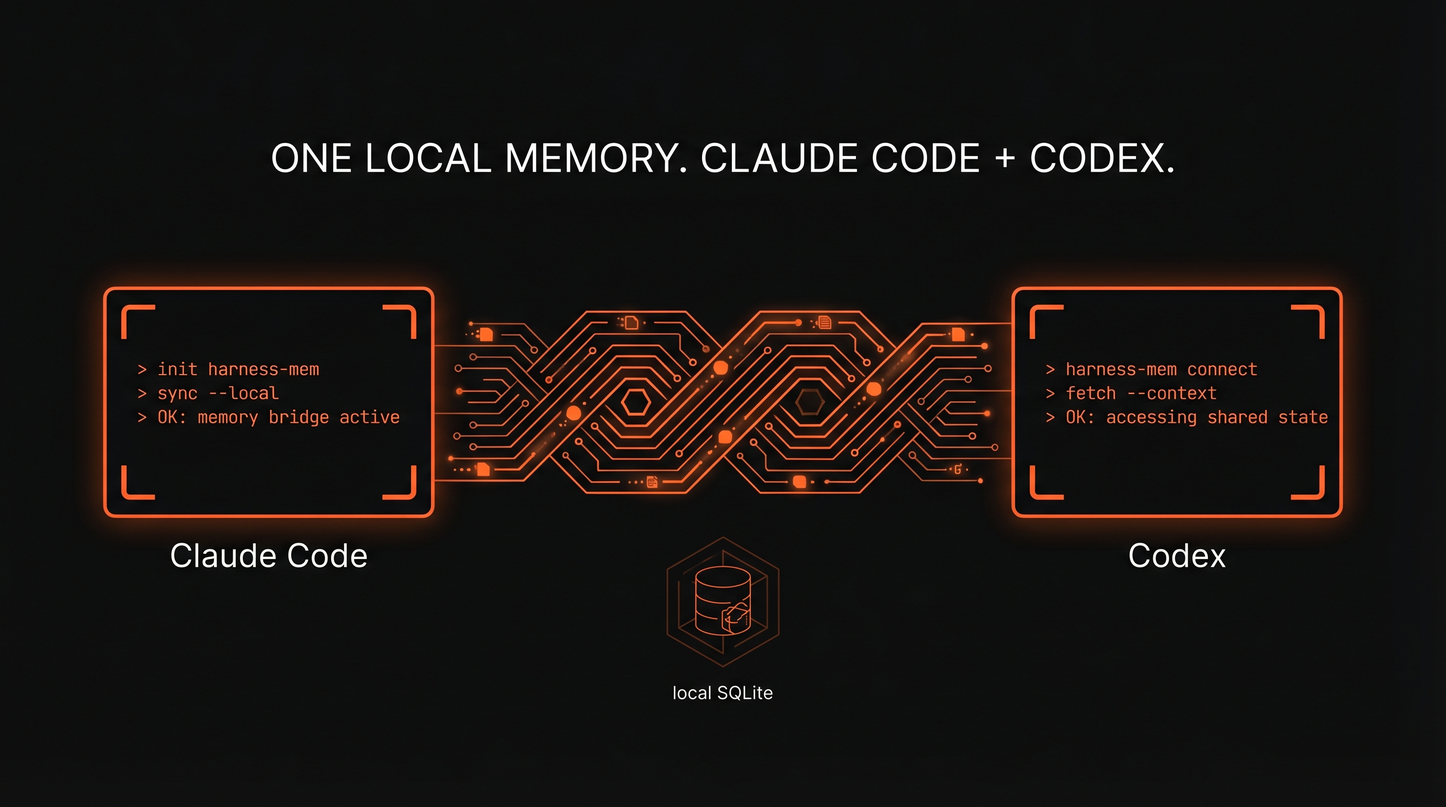
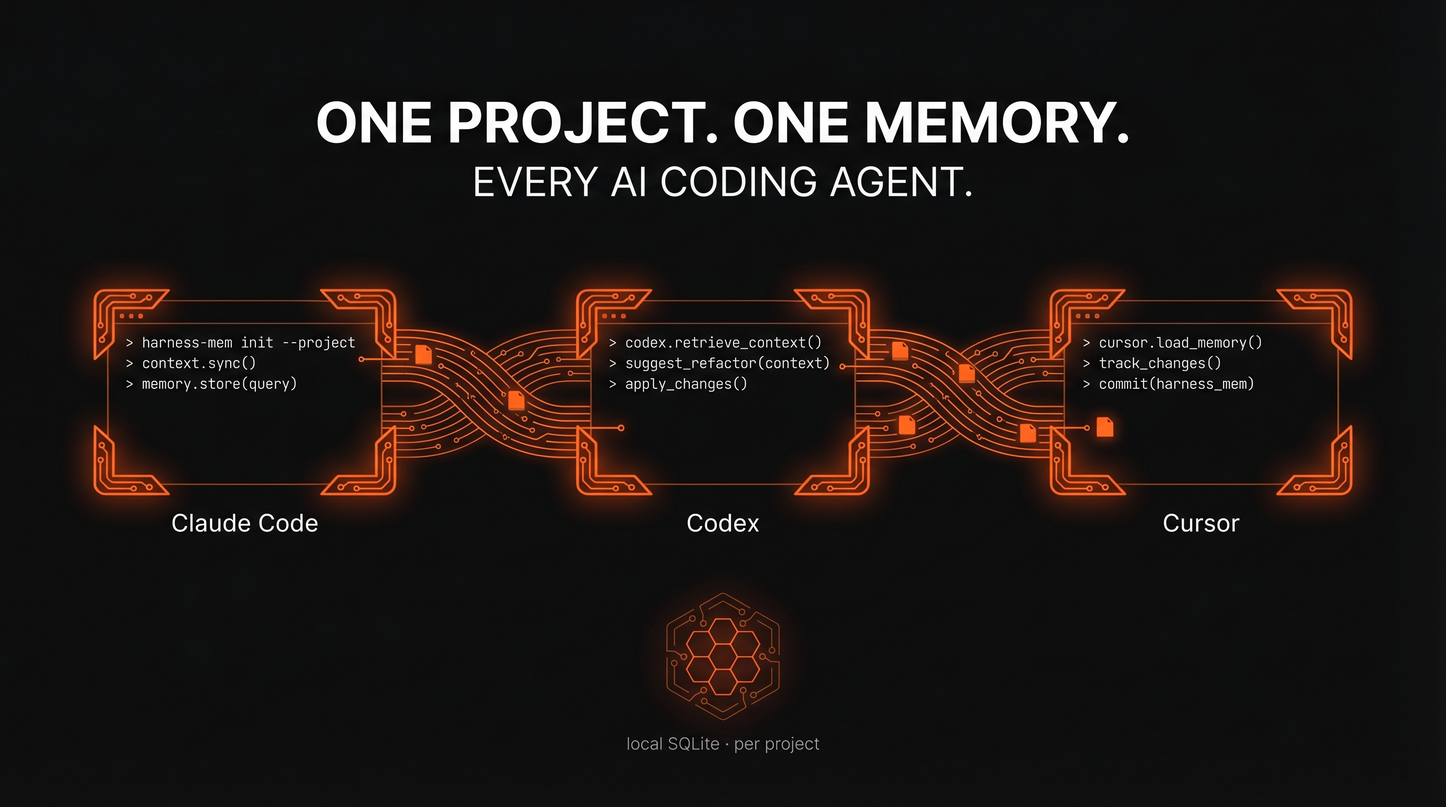
docs: hero v2 with new tagline + committed competitor benchmark audit
Close the loop on the positioning refresh by making the hero image
and the comparison table match each other, and by committing the
raw data behind the comparison table as a machine-readable audit
trail.

## Hero image v2

The previous docs/assets/readme/hero.png embedded the tagline
"ONE LOCAL MEMORY. CLAUDE CODE + CODEX." which no longer matches
the new positioning ("Every AI coding agent"). Regenerate the hero
with Gemini 3 Pro Image (Nano Banana Pro) using a new prompt:

- Two-line centered tagline:
  - Line 1: "ONE PROJECT. ONE MEMORY."
  - Line 2: "EVERY AI CODING AGENT."
- Three symmetric terminal windows labeled Claude Code, Codex,
  Cursor (not just two), to reflect that harness-mem is agent-neutral
  rather than Claude+Codex-only.
- Same brand palette (orange on black, woven circuit-board bridge).
- Same "local SQLite" icon at the bottom, now captioned
  "local SQLite · per project" to surface the project-scoped axis.

Output verified: no typos, proper kerning, three terminals correctly
labeled, tagline rendered sharply. File replaces the old hero.png in
place so the README image reference stays stable.

## Committed competitor benchmark audit

New file: docs/benchmarks/competitors-2026-04.json. Schema
"harness-mem.competitor-benchmarks/v1". Contents:

- 5 benchmarked tools with score, metric, scope, source URL,
  source_type (paper / repo / committed_manifest / third_party_article),
  self_reported flag, fetched_at, and per-row notes.
[…]

Changed region(s): [[0.0312, 0.3125, 0.9688, 0.9375], [0.1875, 0.125, 0.8125, 0.25]]

diff --git a/README.md b/README.md
@@ -105,6 +105,8 @@ LoCoMo is the reference long-term conversational memory benchmark. The table bel
 - We do not run competitors ourselves — every non-harness number above is a self-reported figure from the source linked in the same row.
 - Watch slices that still fail our Japanese companion gate are listed in [Measured Proof](#measured-proof). We publish those failures on purpose.
 
+Raw data (source URLs, fetched dates, exclusion reasons, per-row notes) is committed as a machine-readable audit trail at [`docs/benchmarks/competitors-2026-04.json`](docs/benchmarks/competitors-2026-04.json). New snapshots will be added as dated files rather than mutating the existing one.
+
 Full benchmark gate (primary ship gate + Japanese companion + historical baseline) is in the [Measured Proof](#measured-proof) section below.
 
 ---
